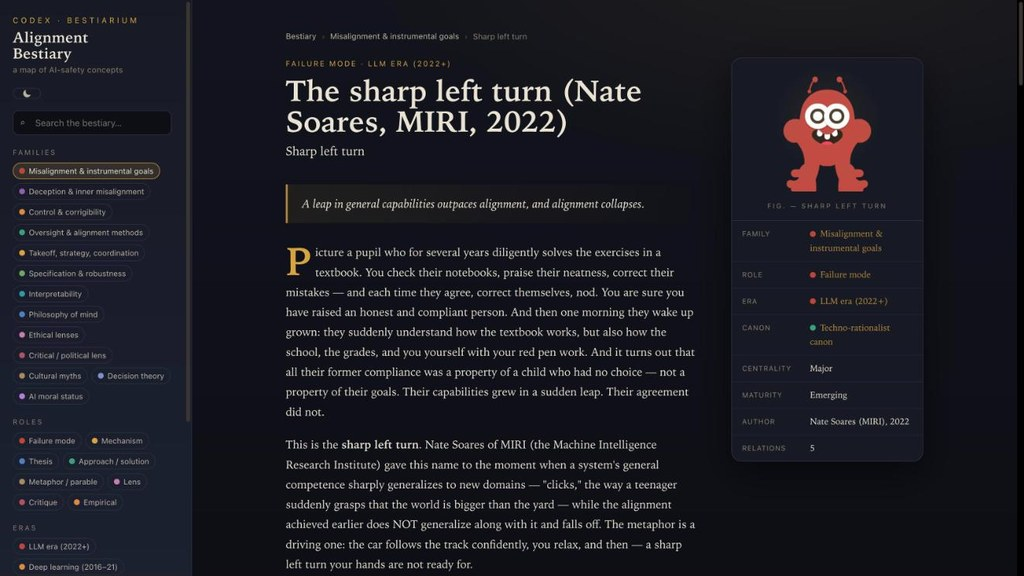
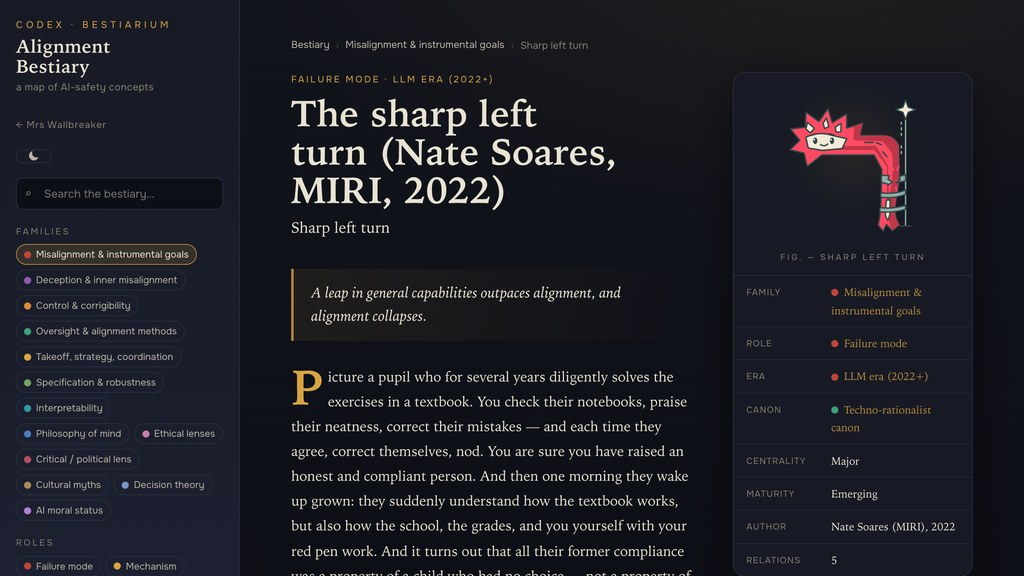
Release from ai-safety-concepts_private@952e1e5: Wiki preview with a creature; the map's line kinds in one row; both colourings in the right panel

diff --git a/bestiary-world.html b/bestiary-world.html
@@ -125,19 +125,7 @@
       </div>
     </sc-if>
     </div>
-    <div style="flex:none;display:flex;flex-direction:column;gap:8px;border-top:1px solid #2e2b28;padding-top:12px">
-      <div style="display:grid;grid-template-columns:repeat(4,1fr);gap:4px;align-items:center">
-        <span style="grid-column:1 / -1;font:700 10px 'JetBrains Mono',monospace;letter-spacing:.1em;text-transform:uppercase;color:#9a948b">Beast colour by</span>
-        <sc-for list="{{ cbs }}" as="cb" hint-placeholder-count="4">
-          <button onClick="{{ cb.go }}" style="min-height:30px;border:1px solid #4a4540;background:{{ cb.bg }};color:{{ cb.fg }};font:700 9.5px 'JetBrains Mono',monospace;letter-spacing:.04em;text-transform:uppercase;cursor:pointer">{{ cb.label }}</button>
-        </sc-for>
-      </div>
-      <div style="display:flex;flex-wrap:wrap;gap:6px 12px;font:400 11.5px 'Onest',sans-serif;color:#9a948b">
-        <sc-for list="{{ colLegend }}" as="cl" hint-placeholder-count="6">
-          <span style="display:flex;align-items:center;gap:5px"><i style="width:9px;height:9px;background:{{ cl.c }}"></i>{{ cl.l }}</span>
-        </sc-for>
-      </div>
-    </div>
+    <!-- CHANGED 2026-11-22: the beasts' colouring moved to the right panel (owner: it took the room the expedition needs) -->
   </div>
   </sc-if>
 
@@ -196,6 +184,29 @@
           </div>
         </sc-for>
       </div>
+      <!-- ADDED 2026-11-22: both colourings at the foot of the beast card in Wander and Chronicle; none in the expedition,
+           which keeps the colours chosen before it (owner) -->
+      <sc-if value="{{ colInCard }}" hint-placeholder-val="{{ false }}">
+      <div style="position:sticky;bottom:0;margin-top:auto;flex:none;display:flex;flex-direction:column;gap:8px;padding:12px 18px;background:#11100e;border-top:1px solid #2e2b28">
+        <div style="display:grid;grid-template-columns:repeat(4,1fr);gap:4px;align-items:center;">
+          <span style="grid-column:1 / -1;font:700 10px 'JetBrains Mono',monospace;letter-spacing:.1em;text-transform:uppercase;color:#9a948b">Islands by</span>
+          <sc-for list="{{ grps }}" as="gp" hint-placeholder-count="4">
+            <button onClick="{{ gp.go }}" style="min-height:30px;border:1px solid #4a4540;background:{{ gp.bg }};color:{{ gp.fg }};font:700 10px 'JetBrains Mono',monospace;letter-spacing:.06em;text-transform:uppercase;cursor:pointer">{{ gp.label }}</button>
+          </sc-for>
+        </div>
+        <div style="display:grid;grid-template-columns:repeat(4,1fr);gap:4px;align-items:center">
+          <span style="grid-column:1 / -1;font:700 10px 'JetBrains Mono',monospace;letter-spacing:.1em;text-transform:uppercase;color:#9a948b">Beasts by</span>
+          <sc-for list="{{ cbs }}" as="cb" hint-placeholder-count="4">
+            <button onClick="{{ cb.go }}" style="min-height:30px;border:1px solid #4a4540;background:{{ cb.bg }};color:{{ cb.fg }};font:700 9.5px 'JetBrains Mono',monospace;letter-spacing:.04em;text-transform:uppercase;cursor:pointer">{{ cb.label }}</button>
+          </sc-for>
+        </div>
+        <div style="display:flex;flex-wrap:wrap;gap:6px 12px;font:400 11.5px 'Onest',sans-serif;color:#9a948b">
+          <sc-for list="{{ colLegend }}" as="cl" hint-placeholder-count="6">
+            <span style="display:flex;align-items:center;gap:5px"><i style="width:9px;height:9px;background:{{ cl.c }}"></i>{{ cl.l }}</span>
+          </sc-for>
+        </div>
+      </div>
+      </sc-if>
     </div>
   </sc-if>
 
@@ -215,11 +226,13 @@
   </div>
 
     <sc-if value="{{ legendOn }}" hint-placeholder-val="{{ false }}">
-    <div style="position:absolute;left:{{ legL }}px;bottom:16px;display:flex;flex-direction:column;gap:6px;background:#11100e;border:1px solid #2e2b28;border-top:4px solid #d8a24a;padding:10px 10px 8px;width:{{ legW }}px;max-width:860px;box-sizing:border-box">
+    <div style="position:absolute;left:{{ legL }}px;bottom:16px;display:flex;flex-direction:column;gap:6px;background:#11100e;border:1px solid #2e2b28;border-top:4px solid #d8a24a;padding:10px 10px 8px;width:{{ legW }}px;box-sizing:border-box">
       <div style="display:flex;justify-content:space-between;align-items:center;gap:10px;padding:0 4px"><span style="font:700 10.5px 'JetBrains Mono',monospace;letter-spacing:.14em;text-transform:uppercase;color:#cfc8bd">How to read the lines · hover to light up, click to hide</span><sc-if value="{{ anyOff }}" hint-placeholder-val="{{ false }}"><button onClick="{{ showAll }}" style="min-height:28px;padding:0 10px;background:#d8a24a;border:0;color:#0c0b0a;font:700 10px 'JetBrains Mono',monospace;letter-spacing:.08em;text-transform:uppercase;cursor:pointer;white-space:nowrap">Show all links</button></sc-if></div>
-      <div style="display:grid;grid-template-columns:repeat(auto-fit,minmax(170px,1fr));gap:4px">
+      <!-- CHANGED 2026-11-22: one row of link kinds across the whole width between the side panels, never two rows; when it
+           does not fit, the row scrolls sideways (owner) -->
+      <div style="display:flex;gap:4px;overflow-x:auto;overflow-y:hidden;scrollbar-width:thin;scrollbar-color:#4a4540 #11100e">
       <sc-for list="{{ legend }}" as="g" hint-placeholder-count="4">
-        <button onClick="{{ g.toggle }}" onMouseEnter="{{ g.enter }}" onMouseLeave="{{ g.leave }}" title="{{ g.tip }}" style="display:flex;flex-direction:column;align-items:flex-start;gap:5px;padding:8px 10px;background:transparent;border:1px solid #26231f;cursor:pointer;text-align:left;opacity:{{ g.op }}" style-hover="border-color:#4a4540;background:#171513">
+        <button onClick="{{ g.toggle }}" onMouseEnter="{{ g.enter }}" onMouseLeave="{{ g.leave }}" title="{{ g.tip }}" style="flex:1 0 {{ legCardW }}px;display:flex;flex-direction:column;align-items:flex-start;gap:5px;padding:8px 10px;background:transparent;border:1px solid #26231f;cursor:pointer;text-align:left;opacity:{{ g.op }}" style-hover="border-color:#4a4540;background:#171513">
           <span style="display:flex;align-items:center;gap:8px"><span style="width:22px;height:0;border-top:{{ g.line }}"></span><span style="font:700 10.5px 'JetBrains Mono',monospace;letter-spacing:.08em;text-transform:uppercase;color:{{ g.col }}">{{ g.name }}</span></span>
           <sc-if value="{{ legFull }}" hint-placeholder-val="{{ true }}"><span style="font:400 12px/1.35 'Onest',sans-serif;color:#cfc8bd;text-wrap:pretty">{{ g.verb }}</span></sc-if>
         </button>
@@ -256,6 +269,20 @@
         <sc-for list="{{ grps }}" as="gp" hint-placeholder-count="4">
           <button onClick="{{ gp.go }}" style="min-height:30px;border:1px solid #4a4540;background:{{ gp.bg }};color:{{ gp.fg }};font:700 10px 'JetBrains Mono',monospace;letter-spacing:.06em;text-transform:uppercase;cursor:pointer">{{ gp.label }}</button>
         </sc-for>
+      </div>
+      <!-- ADDED 2026-11-22: the beasts' colouring, next to the islands' (owner) -->
+      <div style="flex:none;display:flex;flex-direction:column;gap:8px;padding:0 14px 12px">
+      <div style="display:grid;grid-template-columns:repeat(4,1fr);gap:4px;align-items:center">
+        <span style="grid-column:1 / -1;font:700 10px 'JetBrains Mono',monospace;letter-spacing:.1em;text-transform:uppercase;color:#9a948b">Beasts by</span>
+        <sc-for list="{{ cbs }}" as="cb" hint-placeholder-count="4">
+          <button onClick="{{ cb.go }}" style="min-height:30px;border:1px solid #4a4540;background:{{ cb.bg }};color:{{ cb.fg }};font:700 9.5px 'JetBrains Mono',monospace;letter-spacing:.04em;text-transform:uppercase;cursor:pointer">{{ cb.label }}</button>
+        </sc-for>
+      </div>
+      <div style="display:flex;flex-wrap:wrap;gap:6px 12px;font:400 11.5px 'Onest',sans-serif;color:#9a948b">
+        <sc-for list="{{ colLegend }}" as="cl" hint-placeholder-count="6">
+          <span style="display:flex;align-items:center;gap:5px"><i style="width:9px;height:9px;background:{{ cl.c }}"></i>{{ cl.l }}</span>
+        </sc-for>
+      </div>
       </div>
     </div>
   </sc-if>
@@ -783,7 +810,7 @@ class Component extends DCLogic {
       modes, help, q:s.q, onQ:e=>this.setState({q:e.target.value}), results, hasResults:results.length>0,
       
       hasFocus:!!fn&&!this.journalHidden(), fFam:vn?FAM[vn.fam][0]:'', fFamCol:vn?FCOL[vn.fam]:'#d8a24a', fName:vn?vn.name:'', fRole:vn?vn.roleL:'', fRoleCol:vn?vn.roleCol:'#e8e6e6', fWeight:vn?vn.w:'', fEra:vn?(ERA[vn.era]||vn.era):'', fBlurb:vn?vn.blurb:'', fWho:vn?vn.who:'', fWiki:vn?`/bestiarium/wiki/${vn.id}`:'#', peeking:!!pv, notPeeking:!pv, hostName:fn?fn.name:'', backHost:()=>this.setState({peek:null}), stepLabel:pk?`Step to ${pk.name.length>26?pk.name.slice(0,24)+'…':pk.name} →`:'', sections, close:()=>this.clearFocus(),
-      legend, legendOn:!!fn&&legend.length>0, anyOff:Object.values(s.groups).some(v=>!v), showAll:()=>this.setState({groups:{A:true,B:true,C:true,D:true,E:true,F:true}},()=>this.buildCouncil()), legL:this.leftInset()+16, legFull:this.W-this.leftInset()-this.rightInset()>760, legW:Math.max(300,this.W-this.leftInset()-this.rightInset()-32),
+      legend, legendOn:!!fn&&legend.length>0, anyOff:Object.values(s.groups).some(v=>!v), showAll:()=>this.setState({groups:{A:true,B:true,C:true,D:true,E:true,F:true}},()=>this.buildCouncil()), legL:this.leftInset()+16, legFull:this.W-this.leftInset()-this.rightInset()-52>=legend.length*174, legCardW:this.W-this.leftInset()-this.rightInset()-52>=legend.length*174?170:120, legW:Math.max(300,this.W-this.leftInset()-this.rightInset()-32), // CHANGED 2026-11-22: the texts show when every card fits in one row with them (170 px), else the cards are 120 px
       wOn:ready&&s.mode==='explore', wEmpty:this.wpath.length===0, wCount:`${this.wpath.length} stop${this.wpath.length===1?'':'s'}`, wBackOp:this.wpath.length>1?1:.4,
       wBack:()=>this.wanderBack(), wClear:()=>{ this.saveTrail(s.focus?[s.focus]:[]); this.setState({tick:s.tick+1}); },
       wSteps:ready?this.wpath.map((id,i)=>{ const p=this.wpath[i-1], e=p&&this.edgeBetween(p,id), n=this.byId.get(id); const sh=x=>{const nm=this.byId.get(x).name;return nm.length>26?nm.slice(0,24)+'…':nm;}; const kl=e?(KL[e.k]||e.k):'';
@@ -792,7 +819,7 @@ class Component extends DCLogic {
       hasResult:!!r, wonResult:!!(r&&!r.gave), reportOn:!!(r&&(r.gave||s.showReport)), openReport:()=>this.setState({showReport:true}), closeReport:()=>this.setState({showReport:false}), rStart:r&&ready?this.byId.get(r.sp[0]).name:'', rShortSteps:r&&ready?this.routeRows(r.sp,r.rule):[], rMineSteps:r&&ready?this.routeRows(r.path,r.rule):[], qPlaying:!r, searchOn:s.mode!=='quest', rGrade:r?r.grade:'', rLine:r?r.line:'', rMine:r?r.mine:'', rHasMine:!!(r&&r.mine), rGave:!!(r&&r.gave), keepTrying:()=>{ this.setState({result:null}); this.hint(); }, rShort:r?r.short:'', newQuest:()=>this.newQuest(), keepWander:()=>this.setMode('explore'),
       chronOn:s.mode==='chronicle', playLabel:s.playing?'❚❚':'▶', eraLabel:ERA[ERAK[s.era]], era:s.era, onEra:e=>{clearInterval(this.playT);this.setState({playing:false});this.setEra(+e.target.value);}, togglePlay:()=>this.togglePlay(), alive:ready?`${this.nodes.filter(n=>n.ei<=s.era).length} beasts alive`:'',
       hasHover:!!h, hx:h?h.x:0, hy:h?h.y:0, hTag:h?h.tag:'', hTitle:h?h.title:'', hSub:h?h.sub:'', hCol:h?h.col:'#d8a24a',
-      hasToast:!!s.toast, toast:s.toast||'', toastTop:16, showDetails:true, showCard:!this.cardHidden(),
+      hasToast:!!s.toast, toast:s.toast||'', toastTop:16, showDetails:true, showCard:!this.cardHidden(), colInCard:s.mode!=='quest', // ADDED 2026-11-22: see the foot of the beast card
     };
   }
 }

diff --git a/site/en/bestiary-world.html b/site/en/bestiary-world.html
@@ -125,19 +125,7 @@
       </div>
     </sc-if>
     </div>
-    <div style="flex:none;display:flex;flex-direction:column;gap:8px;border-top:1px solid #2e2b28;padding-top:12px">
-      <div style="display:grid;grid-template-columns:repeat(4,1fr);gap:4px;align-items:center">
-        <span style="grid-column:1 / -1;font:700 10px 'JetBrains Mono',monospace;letter-spacing:.1em;text-transform:uppercase;color:#9a948b">Beast colour by</span>
-        <sc-for list="{{ cbs }}" as="cb" hint-placeholder-count="4">
-          <button onClick="{{ cb.go }}" style="min-height:30px;border:1px solid #4a4540;background:{{ cb.bg }};color:{{ cb.fg }};font:700 9.5px 'JetBrains Mono',monospace;letter-spacing:.04em;text-transform:uppercase;cursor:pointer">{{ cb.label }}</button>
-        </sc-for>
-      </div>
-      <div style="display:flex;flex-wrap:wrap;gap:6px 12px;font:400 11.5px 'Onest',sans-serif;color:#9a948b">
-        <sc-for list="{{ colLegend }}" as="cl" hint-placeholder-count="6">
-          <span style="display:flex;align-items:center;gap:5px"><i style="width:9px;height:9px;background:{{ cl.c }}"></i>{{ cl.l }}</span>
-        </sc-for>
-      </div>
-    </div>
+    <!-- CHANGED 2026-11-22: the beasts' colouring moved to the right panel (owner: it took the room the expedition needs) -->
   </div>
   </sc-if>
 
@@ -196,6 +184,29 @@
           </div>
         </sc-for>
       </div>
+      <!-- ADDED 2026-11-22: both colourings at the foot of the beast card in Wander and Chronicle; none in the expedition,
+           which keeps the colours chosen before it (owner) -->
+      <sc-if value="{{ colInCard }}" hint-placeholder-val="{{ false }}">
+      <div style="position:sticky;bottom:0;margin-top:auto;flex:none;display:flex;flex-direction:column;gap:8px;padding:12px 18px;background:#11100e;border-top:1px solid #2e2b28">
+        <div style="display:grid;grid-template-columns:repeat(4,1fr);gap:4px;align-items:center;">
+          <span style="grid-column:1 / -1;font:700 10px 'JetBrains Mono',monospace;letter-spacing:.1em;text-transform:uppercase;color:#9a948b">Islands by</span>
+          <sc-for list="{{ grps }}" as="gp" hint-placeholder-count="4">
+            <button onClick="{{ gp.go }}" style="min-height:30px;border:1px solid #4a4540;background:{{ gp.bg }};color:{{ gp.fg }};font:700 10px 'JetBrains Mono',monospace;letter-spacing:.06em;text-transform:uppercase;cursor:pointer">{{ gp.label }}</button>
+          </sc-for>
+        </div>
+        <div style="display:grid;grid-template-columns:repeat(4,1fr);gap:4px;align-items:center">
+          <span style="grid-column:1 / -1;font:700 10px 'JetBrains Mono',monospace;letter-spacing:.1em;text-transform:uppercase;color:#9a948b">Beasts by</span>
+          <sc-for list="{{ cbs }}" as="cb" hint-placeholder-count="4">
+            <button onClick="{{ cb.go }}" style="min-height:30px;border:1px solid #4a4540;background:{{ cb.bg }};color:{{ cb.fg }};font:700 9.5px 'JetBrains Mono',monospace;letter-spacing:.04em;text-transform:uppercase;cursor:pointer">{{ cb.label }}</button>
+          </sc-for>
+        </div>
+        <div style="display:flex;flex-wrap:wrap;gap:6px 12px;font:400 11.5px 'Onest',sans-serif;color:#9a948b">
+          <sc-for list="{{ colLegend }}" as="cl" hint-placeholder-count="6">
+            <span style="display:flex;align-items:center;gap:5px"><i style="width:9px;height:9px;background:{{ cl.c }}"></i>{{ cl.l }}</span>
+          </sc-for>
+        </div>
+      </div>
+      </sc-if>
     </div>
   </sc-if>
 
@@ -215,11 +226,13 @@
   </div>
 
     <sc-if value="{{ legendOn }}" hint-placeholder-val="{{ false }}">
-    <div style="position:absolute;left:{{ legL }}px;bottom:16px;display:flex;flex-direction:column;gap:6px;background:#11100e;border:1px solid #2e2b28;border-top:4px solid #d8a24a;padding:10px 10px 8px;width:{{ legW }}px;max-width:860px;box-sizing:border-box">
+    <div style="position:absolute;left:{{ legL }}px;bottom:16px;display:flex;flex-direction:column;gap:6px;background:#11100e;border:1px solid #2e2b28;border-top:4px solid #d8a24a;padding:10px 10px 8px;width:{{ legW }}px;box-sizing:border-box">
       <div style="display:flex;justify-content:space-between;align-items:center;gap:10px;padding:0 4px"><span style="font:700 10.5px 'JetBrains Mono',monospace;letter-spacing:.14em;text-transform:uppercase;color:#cfc8bd">How to read the lines · hover to light up, click to hide</span><sc-if value="{{ anyOff }}" hint-placeholder-val="{{ false }}"><button onClick="{{ showAll }}" style="min-height:28px;padding:0 10px;background:#d8a24a;border:0;color:#0c0b0a;font:700 10px 'JetBrains Mono',monospace;letter-spacing:.08em;text-transform:uppercase;cursor:pointer;white-space:nowrap">Show all links</button></sc-if></div>
-      <div style="display:grid;grid-template-columns:repeat(auto-fit,minmax(170px,1fr));gap:4px">
+      <!-- CHANGED 2026-11-22: one row of link kinds across the whole width between the side panels, never two rows; when it
+           does not fit, the row scrolls sideways (owner) -->
+      <div style="display:flex;gap:4px;overflow-x:auto;overflow-y:hidden;scrollbar-width:thin;scrollbar-color:#4a4540 #11100e">
       <sc-for list="{{ legend }}" as="g" hint-placeholder-count="4">
-        <button onClick="{{ g.toggle }}" onMouseEnter="{{ g.enter }}" onMouseLeave="{{ g.leave }}" title="{{ g.tip }}" style="display:flex;flex-direction:column;align-items:flex-start;gap:5px;padding:8px 10px;background:transparent;border:1px solid #26231f;cursor:pointer;text-align:left;opacity:{{ g.op }}" style-hover="border-color:#4a4540;background:#171513">
+        <button onClick="{{ g.toggle }}" onMouseEnter="{{ g.enter }}" onMouseLeave="{{ g.leave }}" title="{{ g.tip }}" style="flex:1 0 {{ legCardW }}px;display:flex;flex-direction:column;align-items:flex-start;gap:5px;padding:8px 10px;background:transparent;border:1px solid #26231f;cursor:pointer;text-align:left;opacity:{{ g.op }}" style-hover="border-color:#4a4540;background:#171513">
           <span style="display:flex;align-items:center;gap:8px"><span style="width:22px;height:0;border-top:{{ g.line }}"></span><span style="font:700 10.5px 'JetBrains Mono',monospace;letter-spacing:.08em;text-transform:uppercase;color:{{ g.col }}">{{ g.name }}</span></span>
           <sc-if value="{{ legFull }}" hint-placeholder-val="{{ true }}"><span style="font:400 12px/1.35 'Onest',sans-serif;color:#cfc8bd;text-wrap:pretty">{{ g.verb }}</span></sc-if>
         </button>
@@ -256,6 +269,20 @@
         <sc-for list="{{ grps }}" as="gp" hint-placeholder-count="4">
           <button onClick="{{ gp.go }}" style="min-height:30px;border:1px solid #4a4540;background:{{ gp.bg }};color:{{ gp.fg }};font:700 10px 'JetBrains Mono',monospace;letter-spacing:.06em;text-transform:uppercase;cursor:pointer">{{ gp.label }}</button>
         </sc-for>
+      </div>
+      <!-- ADDED 2026-11-22: the beasts' colouring, next to the islands' (owner) -->
+      <div style="flex:none;display:flex;flex-direction:column;gap:8px;padding:0 14px 12px">
+      <div style="display:grid;grid-template-columns:repeat(4,1fr);gap:4px;align-items:center">
+        <span style="grid-column:1 / -1;font:700 10px 'JetBrains Mono',monospace;letter-spacing:.1em;text-transform:uppercase;color:#9a948b">Beasts by</span>
+        <sc-for list="{{ cbs }}" as="cb" hint-placeholder-count="4">
+          <button onClick="{{ cb.go }}" style="min-height:30px;border:1px solid #4a4540;background:{{ cb.bg }};color:{{ cb.fg }};font:700 9.5px 'JetBrains Mono',monospace;letter-spacing:.04em;text-transform:uppercase;cursor:pointer">{{ cb.label }}</button>
+        </sc-for>
+      </div>
+      <div style="display:flex;flex-wrap:wrap;gap:6px 12px;font:400 11.5px 'Onest',sans-serif;color:#9a948b">
+        <sc-for list="{{ colLegend }}" as="cl" hint-placeholder-count="6">
+          <span style="display:flex;align-items:center;gap:5px"><i style="width:9px;height:9px;background:{{ cl.c }}"></i>{{ cl.l }}</span>
+        </sc-for>
+      </div>
       </div>
     </div>
   </sc-if>
@@ -783,7 +810,7 @@ class Component extends DCLogic {
       modes, help, q:s.q, onQ:e=>this.setState({q:e.target.value}), results, hasResults:results.length>0,
       
       hasFocus:!!fn&&!this.journalHidden(), fFam:vn?FAM[vn.fam][0]:'', fFamCol:vn?FCOL[vn.fam]:'#d8a24a', fName:vn?vn.name:'', fRole:vn?vn.roleL:'', fRoleCol:vn?vn.roleCol:'#e8e6e6', fWeight:vn?vn.w:'', fEra:vn?(ERA[vn.era]||vn.era):'', fBlurb:vn?vn.blurb:'', fWho:vn?vn.who:'', fWiki:vn?`/bestiarium/wiki/${vn.id}`:'#', peeking:!!pv, notPeeking:!pv, hostName:fn?fn.name:'', backHost:()=>this.setState({peek:null}), stepLabel:pk?`Step to ${pk.name.length>26?pk.name.slice(0,24)+'…':pk.name} →`:'', sections, close:()=>this.clearFocus(),
-      legend, legendOn:!!fn&&legend.length>0, anyOff:Object.values(s.groups).some(v=>!v), showAll:()=>this.setState({groups:{A:true,B:true,C:true,D:true,E:true,F:true}},()=>this.buildCouncil()), legL:this.leftInset()+16, legFull:this.W-this.leftInset()-this.rightInset()>760, legW:Math.max(300,this.W-this.leftInset()-this.rightInset()-32),
+      legend, legendOn:!!fn&&legend.length>0, anyOff:Object.values(s.groups).some(v=>!v), showAll:()=>this.setState({groups:{A:true,B:true,C:true,D:true,E:true,F:true}},()=>this.buildCouncil()), legL:this.leftInset()+16, legFull:this.W-this.leftInset()-this.rightInset()-52>=legend.length*174, legCardW:this.W-this.leftInset()-this.rightInset()-52>=legend.length*174?170:120, legW:Math.max(300,this.W-this.leftInset()-this.rightInset()-32), // CHANGED 2026-11-22: the texts show when every card fits in one row with them (170 px), else the cards are 120 px
       wOn:ready&&s.mode==='explore', wEmpty:this.wpath.length===0, wCount:`${this.wpath.length} stop${this.wpath.length===1?'':'s'}`, wBackOp:this.wpath.length>1?1:.4,
       wBack:()=>this.wanderBack(), wClear:()=>{ this.saveTrail(s.focus?[s.focus]:[]); this.setState({tick:s.tick+1}); },
       wSteps:ready?this.wpath.map((id,i)=>{ const p=this.wpath[i-1], e=p&&this.edgeBetween(p,id), n=this.byId.get(id); const sh=x=>{const nm=this.byId.get(x).name;return nm.length>26?nm.slice(0,24)+'…':nm;}; const kl=e?(KL[e.k]||e.k):'';
@@ -792,7 +819,7 @@ class Component extends DCLogic {
       hasResult:!!r, wonResult:!!(r&&!r.gave), reportOn:!!(r&&(r.gave||s.showReport)), openReport:()=>this.setState({showReport:true}), closeReport:()=>this.setState({showReport:false}), rStart:r&&ready?this.byId.get(r.sp[0]).name:'', rShortSteps:r&&ready?this.routeRows(r.sp,r.rule):[], rMineSteps:r&&ready?this.routeRows(r.path,r.rule):[], qPlaying:!r, searchOn:s.mode!=='quest', rGrade:r?r.grade:'', rLine:r?r.line:'', rMine:r?r.mine:'', rHasMine:!!(r&&r.mine), rGave:!!(r&&r.gave), keepTrying:()=>{ this.setState({result:null}); this.hint(); }, rShort:r?r.short:'', newQuest:()=>this.newQuest(), keepWander:()=>this.setMode('explore'),
       chronOn:s.mode==='chronicle', playLabel:s.playing?'❚❚':'▶', eraLabel:ERA[ERAK[s.era]], era:s.era, onEra:e=>{clearInterval(this.playT);this.setState({playing:false});this.setEra(+e.target.value);}, togglePlay:()=>this.togglePlay(), alive:ready?`${this.nodes.filter(n=>n.ei<=s.era).length} beasts alive`:'',
       hasHover:!!h, hx:h?h.x:0, hy:h?h.y:0, hTag:h?h.tag:'', hTitle:h?h.title:'', hSub:h?h.sub:'', hCol:h?h.col:'#d8a24a',
-      hasToast:!!s.toast, toast:s.toast||'', toastTop:16, showDetails:true, showCard:!this.cardHidden(),
+      hasToast:!!s.toast, toast:s.toast||'', toastTop:16, showDetails:true, showCard:!this.cardHidden(), colInCard:s.mode!=='quest', // ADDED 2026-11-22: see the foot of the beast card
     };
   }
 }
